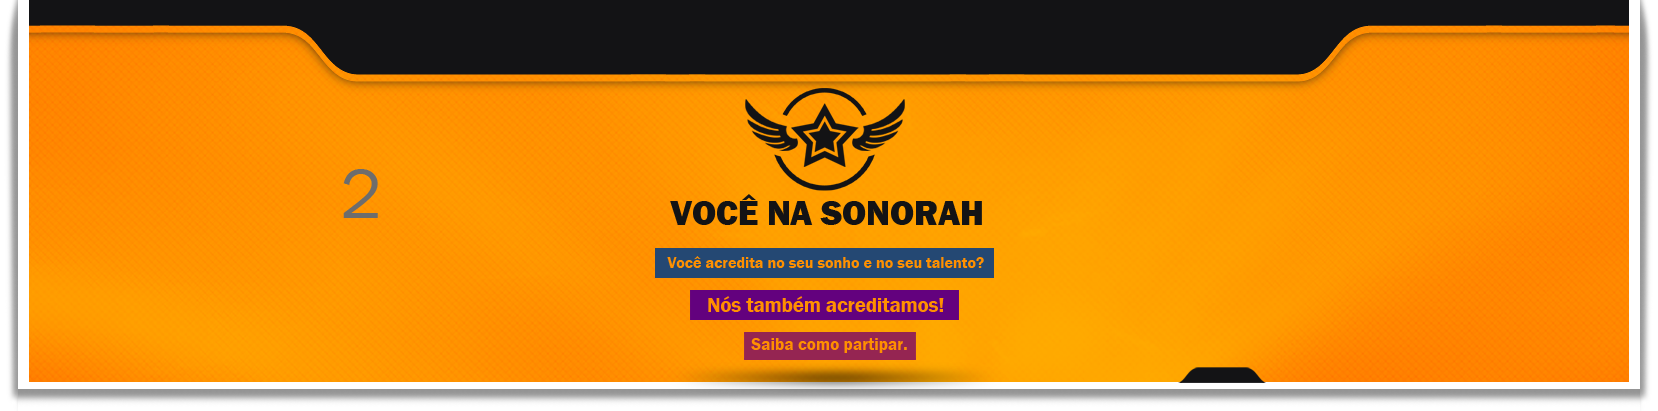
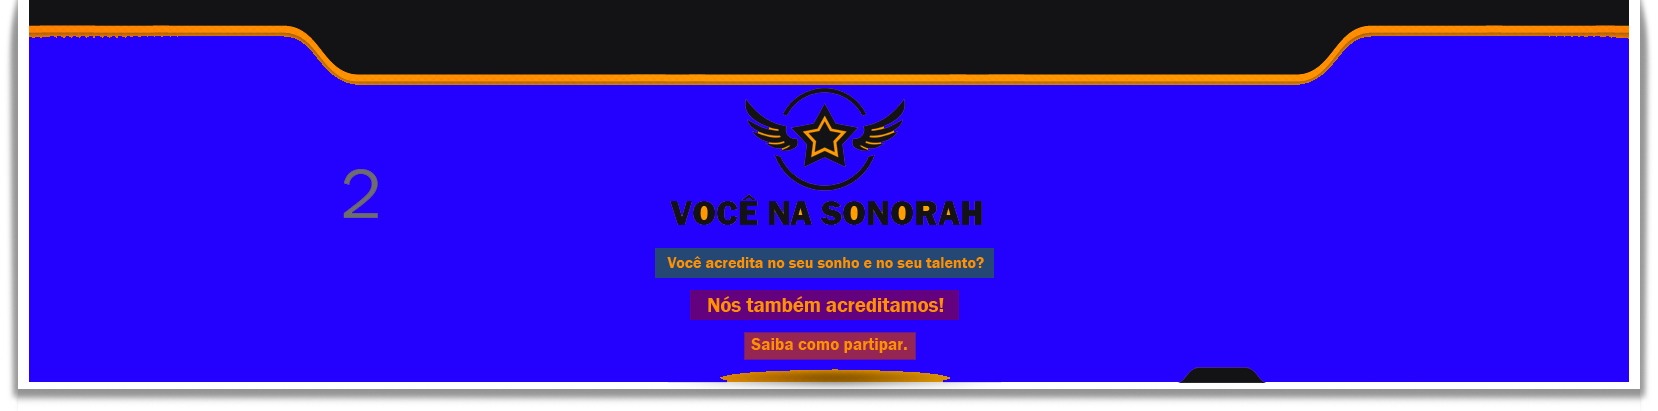
Troca de classe por tempo do conteudo

diff --git a/templates/base.html b/templates/base.html
@@ -58,7 +58,7 @@
 		        {% endblock js_ready %}
 		     		         
 		     	//*usar chama de funcao de tempo com fade*/
-		     	$('a#fundo1').click(function (){
+		     	/*$('a#fundo1').click(function (){
 		     		$('body').removeClass("fundo2");
 		     		$('body').removeClass("fundo3");
 		     		$('body').addClass("fundo1"); 
@@ -73,8 +73,9 @@
 		     		$('body').removeClass("fundo1");
 		     		$('body').addClass("fundo3"); 
 		     		 
-		     	});
+		     	});*/
 		     	/*Carregar o conteudo*/
+		     	/*$('#foo').slideUp(300).delay(800).fadeIn(400);*/
 		    	
 		     	$.blockUI({ message: '<h1><img src="/media/images/ajax-loader.gif" /> Carregando...</h1>' }); 
 		    	$.blockUI({ css: { border:'0px solid #131315'} });  	
@@ -87,7 +88,40 @@
 	                context: document.body,
 	                success: function() { 
 	                    // unblock when remote call returns 	                    
-	                    $.unblockUI();
+	                    $.unblockUI();/*
+	                    $('#book').fadeOut('slow', function() {
+						    // Animation complete.
+						});*/
+						
+						/*Animacao por tempo do conteudo*/
+	                    pulse1();
+	                    pulse2();
+	                    pulse3();
+	                    function pulse1() {
+	                    	/*alert('pulse1');*/
+								$('body').removeClass('fundo3', 2000, function() {
+									/*alert('remove_fundo3');*/
+									$('body').addClass('fundo1', 2000, pulse1)
+									/*alert('adiciona_fundo1');*/
+								});
+							}
+						
+						function pulse2() {
+							/*alert('pulse2');*/
+							$('body').removeClass('fundo1', 3000, function() {
+								/*alert('remove_fundo1');*/
+									$('body').addClass('fundo2', 4000, pulse2)
+									/*alert('adiciona_fundo2');*/
+								});
+						}
+						function pulse3() {
+							/*alert('pulse3');*/
+								$('body').removeClass('fundo2', 3000, function() {
+									/*alert('remove_fundo2');*/
+									$('body').addClass('fundo3', 4000, pulse3)
+									/*alert('adiciona_fundo3');*/
+								});
+						} 
 	                    /*alert('ola');*/ 
 	                } 
 	            }); 

diff --git a/media/css/cabecalho.css b/media/css/cabecalho.css
@@ -65,21 +65,21 @@
 	background-image: url(/media/images/home/fundo_banner_inter.png);
 	background-repeat: no-repeat;
 	/*background-position: center center;*/
-	background-position: center 119.5px;
+	background-position: center 100px;
 }
 .fundo2{
 	background-color:#131315;
 	background-image: url(/media/images/home/fundo_banner_inter2.png);
 	background-repeat: no-repeat;
 	/*background-position: center center;*/
-	background-position: center 119.5px;
+	background-position: center 100px;
 }
 .fundo3{
 	background-color:#131315;
 	background-image: url(/media/images/home/fundo_banner_inter3.png);
 	background-repeat: no-repeat;
 	/*background-position: center center;*/
-	background-position: center 119.5px;
+	background-position: center 100px;
 }
 
 
